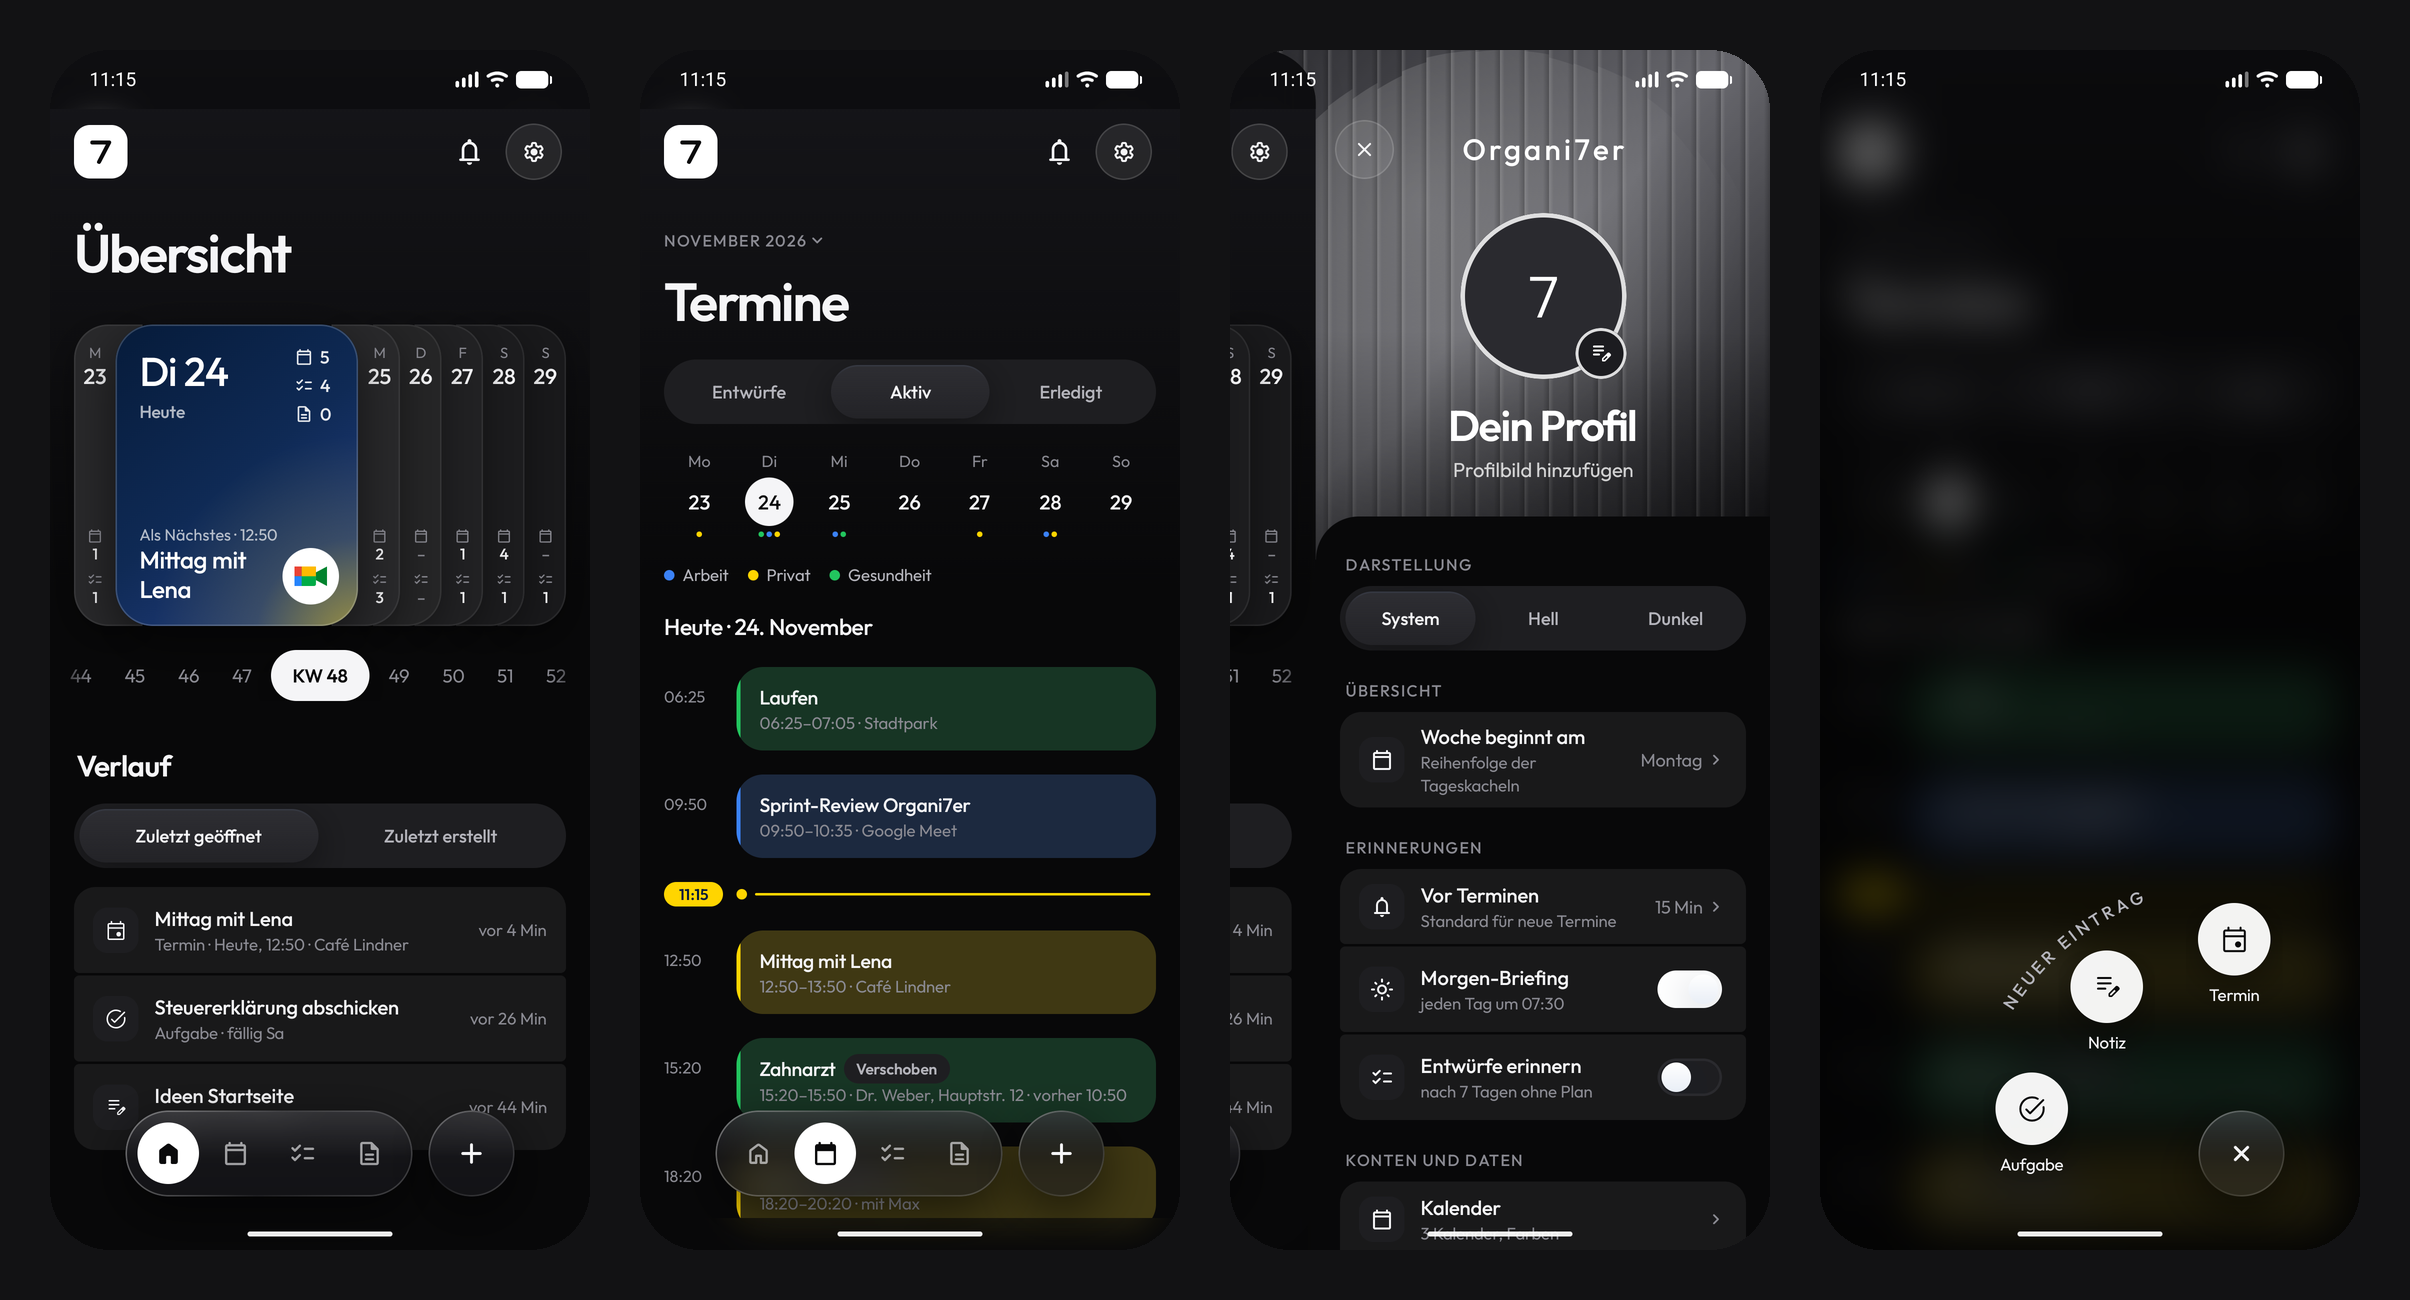
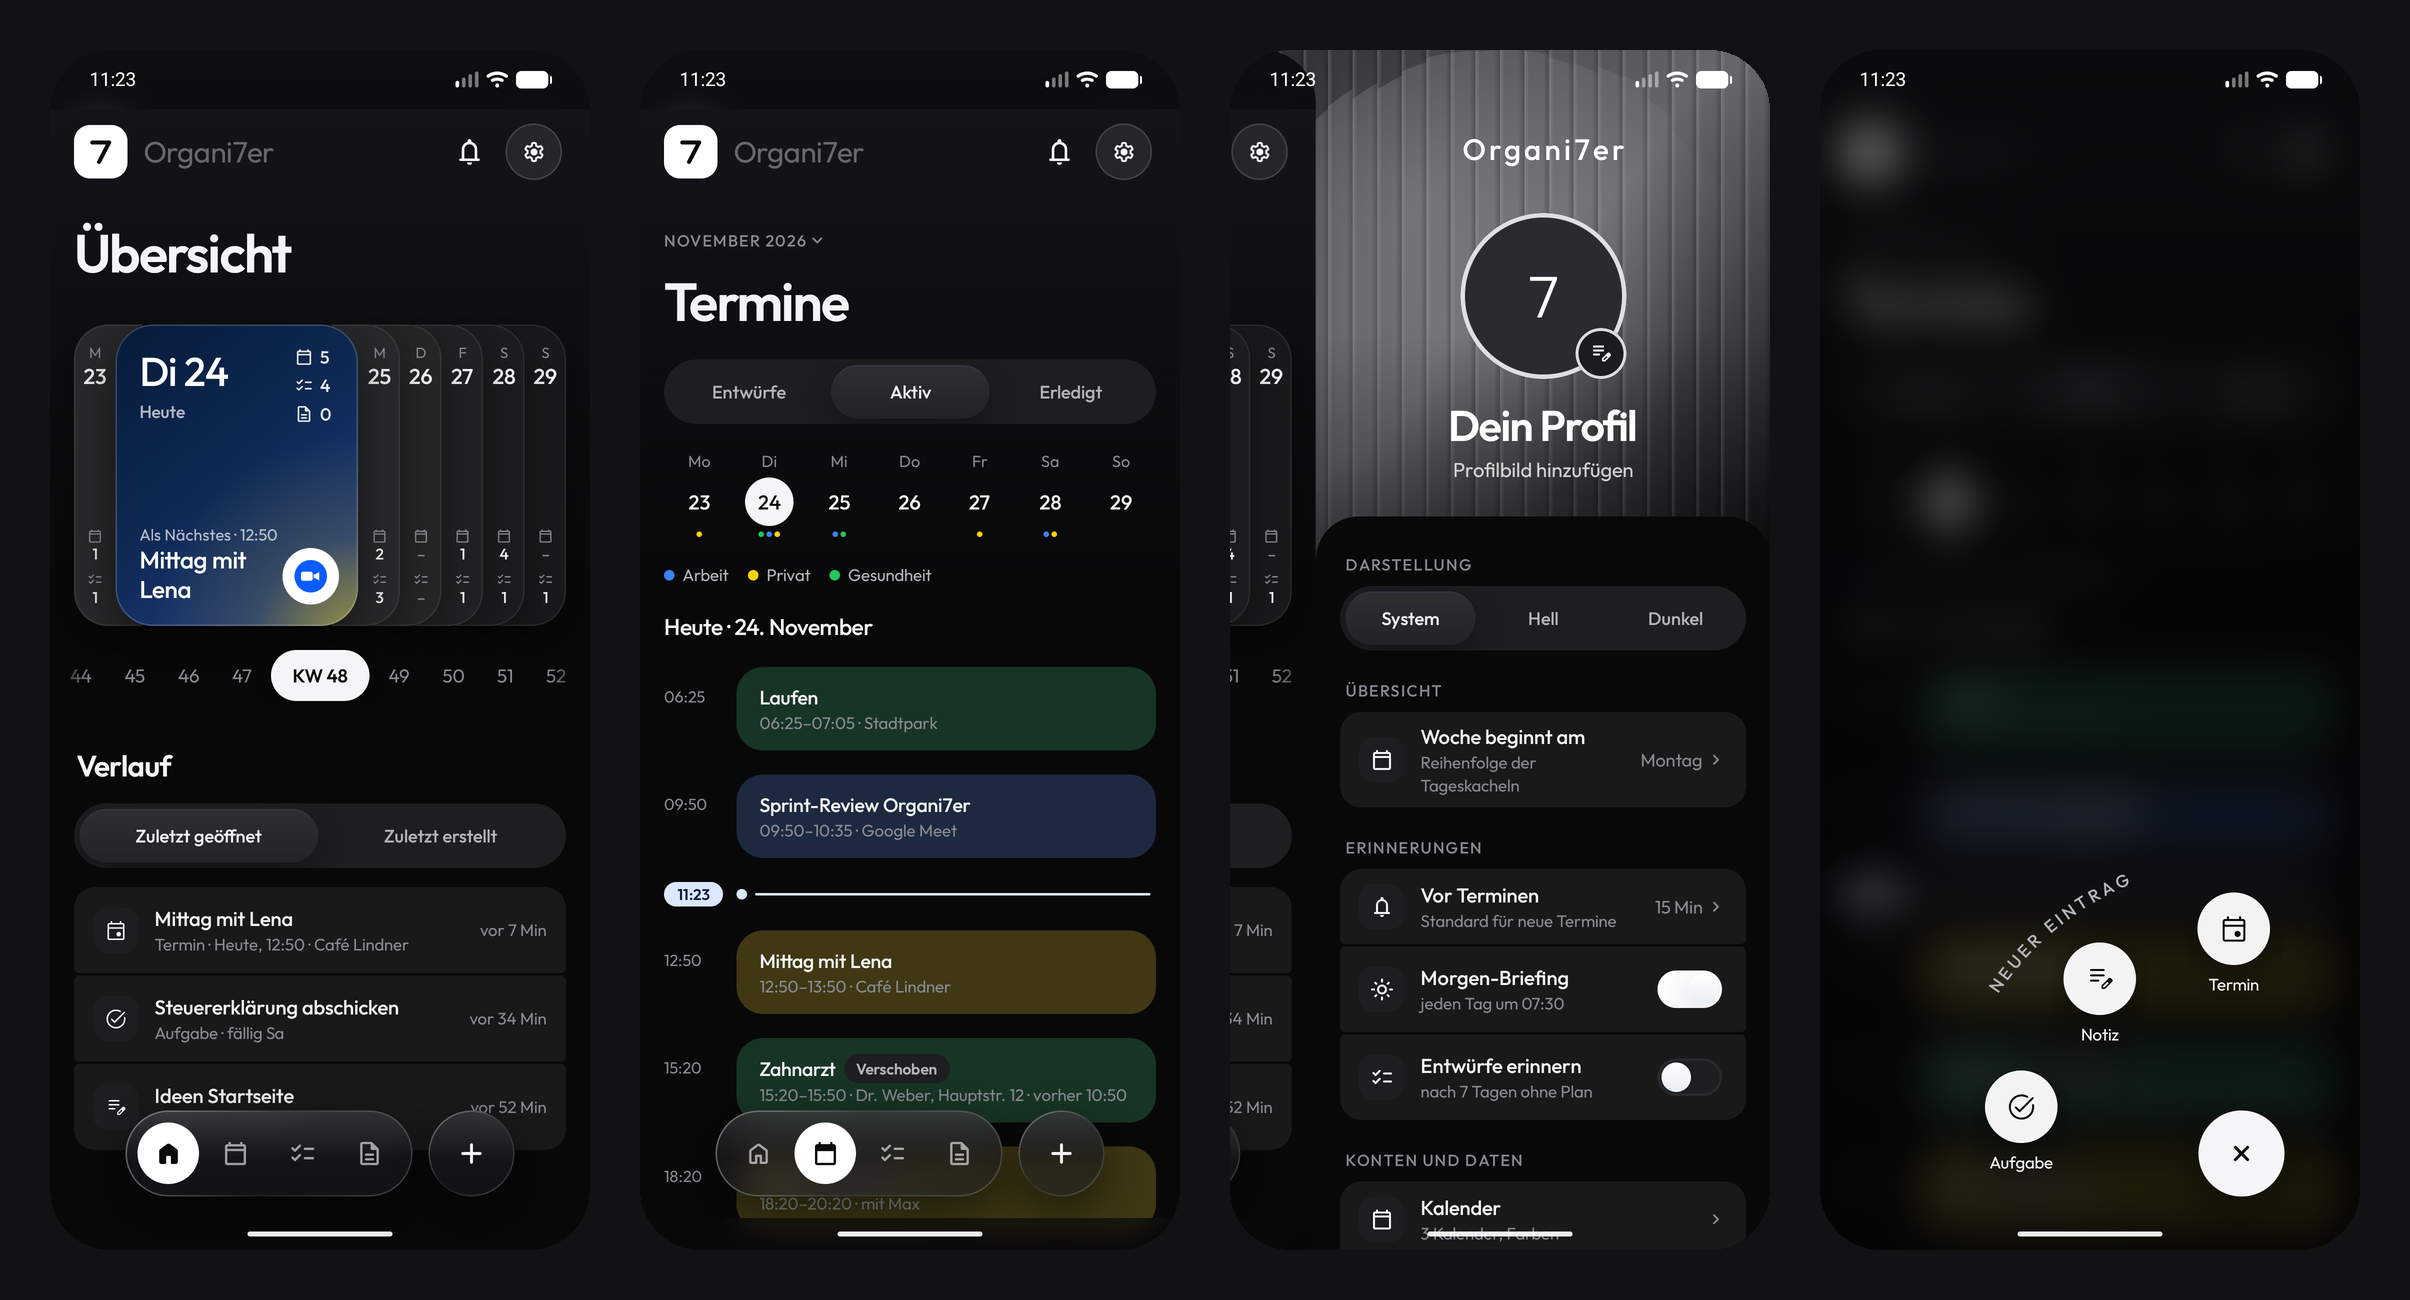
Feinschliff: App-Name im Kopf, Menü ohne ×, Termine ohne Farbstreifen, Jetzt-Linie Navy
- Kopf: dezentes „Organi7er“ neben dem Logo
- Menü: Schließen-Knopf entfernt, Einstellungsfläche oben links und rechts abgerundet
- Termine: kein farbiger linker Rand mehr; Jetzt-Linie hell Navy/weiß, dunkel hellblau/navy
- Neuer Eintrag: Knöpfe und Bogen-Text 8 dp weiter vom ×; × geöffnet hell schwarz, dunkel weiß

diff --git a/app/src/main/java/app/organi7er/core/designsystem/components/Controls.kt b/app/src/main/java/app/organi7er/core/designsystem/components/Controls.kt
@@ -441,16 +441,19 @@ fun Legend(items: List<Pair<String, Color>>, modifier: Modifier = Modifier) {
 @Composable
 fun NowLine(time: String, modifier: Modifier = Modifier) {
     val c = OrganiTheme.colors
+    // Hell: Navy mit weißer Zeit; dunkel: das helle Gegenstück (sehr helles Blau) mit dunkler Zeit.
+    val line = if (c.isDark) app.organi7er.core.designsystem.Primitives.Blue100 else app.organi7er.core.designsystem.Primitives.Navy900
+    val onLine = if (c.isDark) app.organi7er.core.designsystem.Primitives.Navy900 else Color.White
     Row(
         modifier.fillMaxWidth().semantics(mergeDescendants = true) { contentDescription = "Jetzt, $time" },
         verticalAlignment = Alignment.CenterVertically,
         horizontalArrangement = Arrangement.spacedBy(10.dp),
     ) {
-        Box(Modifier.width(44.dp).clip(OrganiShapes.pill).background(c.accent).padding(vertical = 2.dp), contentAlignment = Alignment.Center) {
-            Text(time, style = OrganiTheme.type.tag, color = c.onAccent, textAlign = TextAlign.Center)
+        Box(Modifier.width(44.dp).clip(OrganiShapes.pill).background(line).padding(vertical = 2.dp), contentAlignment = Alignment.Center) {
+            Text(time, style = OrganiTheme.type.tag, color = onLine, textAlign = TextAlign.Center)
         }
-        Box(Modifier.size(8.dp).clip(OrganiShapes.circle).background(c.accent))
-        Box(Modifier.weight(1f).height(2.dp).offset(x = (-4).dp).clip(OrganiShapes.pill).background(c.accent))
+        Box(Modifier.size(8.dp).clip(OrganiShapes.circle).background(line))
+        Box(Modifier.weight(1f).height(2.dp).offset(x = (-4).dp).clip(OrganiShapes.pill).background(line))
     }
 }
 

diff --git a/app/src/main/java/app/organi7er/core/designsystem/components/TabBar.kt b/app/src/main/java/app/organi7er/core/designsystem/components/TabBar.kt
@@ -184,6 +184,8 @@ private fun AddButton(open: Boolean, onClick: () -> Unit, hazeState: HazeState?)
         Modifier
             .size(PlusSize)
             .liquidGlass(OrganiShapes.circle, hazeState)
+            // Geöffnet: gefüllt – hell schwarz mit weißem ×, dunkel weiß mit schwarzem ×.
+            .then(if (open) Modifier.background(c.text) else Modifier)
             .clickable(role = Role.Button, onClickLabel = if (open) "Schließen" else "Neuer Eintrag") {
                 haptics.performHapticFeedback(androidx.compose.ui.hapticfeedback.HapticFeedbackType.ContextClick)
                 onClick()
@@ -191,6 +193,6 @@ private fun AddButton(open: Boolean, onClick: () -> Unit, hazeState: HazeState?)
             .semantics { contentDescription = if (open) "Neuer Eintrag schließen" else "Neuer Eintrag" },
         contentAlignment = Alignment.Center,
     ) {
-        MsIcon(Ms.add, null, Modifier.rotate(rotation), tint = c.text, size = 26.dp)
+        MsIcon(Ms.add, null, Modifier.rotate(rotation), tint = if (open) c.bg else c.text, size = 26.dp)
     }
 }

diff --git a/app/src/main/java/app/organi7er/core/designsystem/components/QuickCapture.kt b/app/src/main/java/app/organi7er/core/designsystem/components/QuickCapture.kt
@@ -48,8 +48,8 @@ import app.organi7er.core.designsystem.OrganiTheme
 import kotlin.math.cos
 import kotlin.math.sin
 
-private val ArcSize = 264.dp
-private val ArcRadius = 160.dp
+private val ArcSize = 288.dp
+private val ArcRadius = 168.dp
 
 /**
  * „Neuer Eintrag“: Bogen über dem Plus-Knopf (Hintergrund unscharf), Aufgabe · Notiz · Termin auf einem Bogen.
@@ -153,7 +153,7 @@ private fun ArcLabel(text: String, color: Color, modifier: Modifier) {
     androidx.compose.foundation.Canvas(modifier.semantics { contentDescription = text }) {
         val cx = size.width - 32.dp.toPx()
         val cy = size.height - 32.dp.toPx()
-        val radius = 206.dp.toPx()
+        val radius = 222.dp.toPx()
         val gap = 3.dp.toPx()
         val glyphs = text.map { measurer.measure(it.toString(), style) }
         val total = glyphs.sumOf { it.size.width.toDouble() + gap } - gap

diff --git a/app/src/main/java/app/organi7er/feature/common/AppHeader.kt b/app/src/main/java/app/organi7er/feature/common/AppHeader.kt
@@ -67,7 +67,14 @@ fun AppHeader(
         // Obere Zeile: Logo links, Glocke und Profil/Einstellungen rechts.
         Row(Modifier.fillMaxWidth(), verticalAlignment = Alignment.CenterVertically) {
             Logo()
-            Box(Modifier.weight(1f))
+            // App-Name dezent neben dem Logo.
+            Text(
+                "Organi7er",
+                Modifier.padding(start = 12.dp).weight(1f),
+                style = OrganiTheme.type.title.copy(fontSize = 22.sp, fontWeight = androidx.compose.ui.text.font.FontWeight.Normal),
+                color = c.textSoft.copy(alpha = 0.7f),
+                maxLines = 1,
+            )
             Row(horizontalArrangement = Arrangement.spacedBy(Spacing.xs), verticalAlignment = Alignment.CenterVertically, content = actions)
             Box(
                 Modifier

diff --git a/app/src/main/java/app/organi7er/feature/settings/ProfileHeader.kt b/app/src/main/java/app/organi7er/feature/settings/ProfileHeader.kt
@@ -106,7 +106,7 @@ fun ProfileHeader(name: String, imagePath: String?, onBack: () -> Unit, onEdit: 
                 },
         )
         Row(Modifier.statusBarsPadding().padding(start = startInset).padding(horizontal = 12.dp, vertical = 6.dp).fillMaxWidth(), verticalAlignment = Alignment.CenterVertically) {
-            GlassCircleButton(Ms.close, "Menü schließen", onBack)
+            Box(Modifier.size(48.dp))
             Text(
                 "Organi7er",
                 Modifier.weight(1f).semantics { heading() },

diff --git a/app/src/main/java/app/organi7er/feature/settings/Settings.kt b/app/src/main/java/app/organi7er/feature/settings/Settings.kt
@@ -166,7 +166,7 @@ fun SettingsScreen(
             Modifier
                 .padding(start = startInset)
                 .offset(y = (-32).dp)
-                .clip(androidx.compose.foundation.shape.RoundedCornerShape(topStart = 32.dp))
+                .clip(androidx.compose.foundation.shape.RoundedCornerShape(topStart = 32.dp, topEnd = 32.dp))
                 .background(c.bg)
                 .padding(horizontal = Spacing.screen)
                 .padding(top = 28.dp),

diff --git a/app/src/main/java/app/organi7er/core/designsystem/components/Cards.kt b/app/src/main/java/app/organi7er/core/designsystem/components/Cards.kt
@@ -264,7 +264,6 @@ fun CalendarEventItem(
             .heightIn(min = 56.dp)
             .clip(OrganiShapes.medium)
             .background(tint)
-            .drawBehind { drawRect(color, size = Size(3.dp.toPx(), size.height)) }
             .clickable(onClick = onClick)
             .padding(start = 17.dp, end = 14.dp, top = 12.dp, bottom = 12.dp),
         verticalAlignment = Alignment.CenterVertically,
